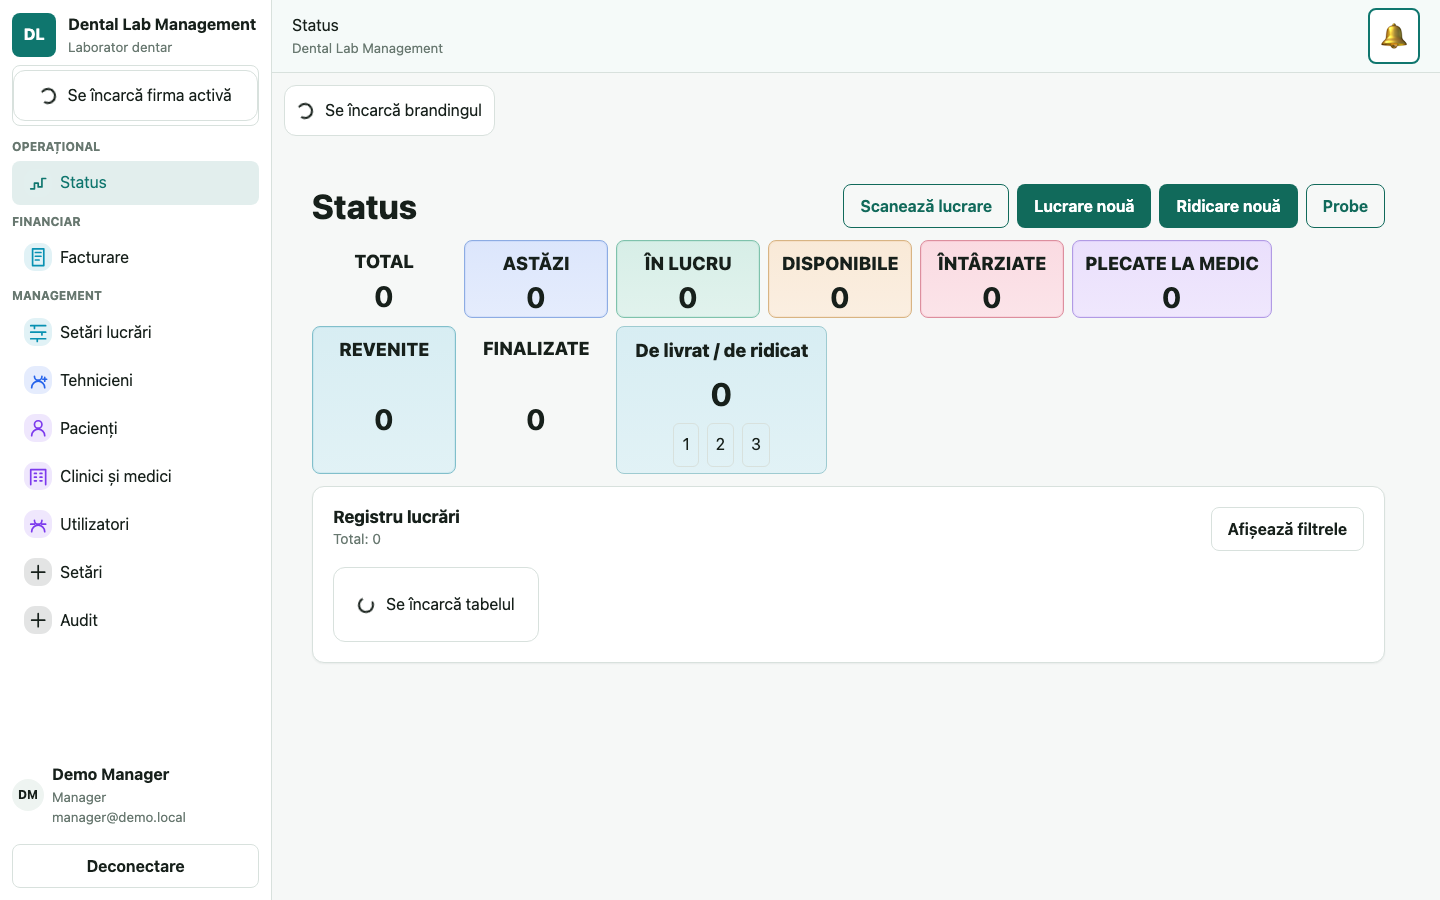
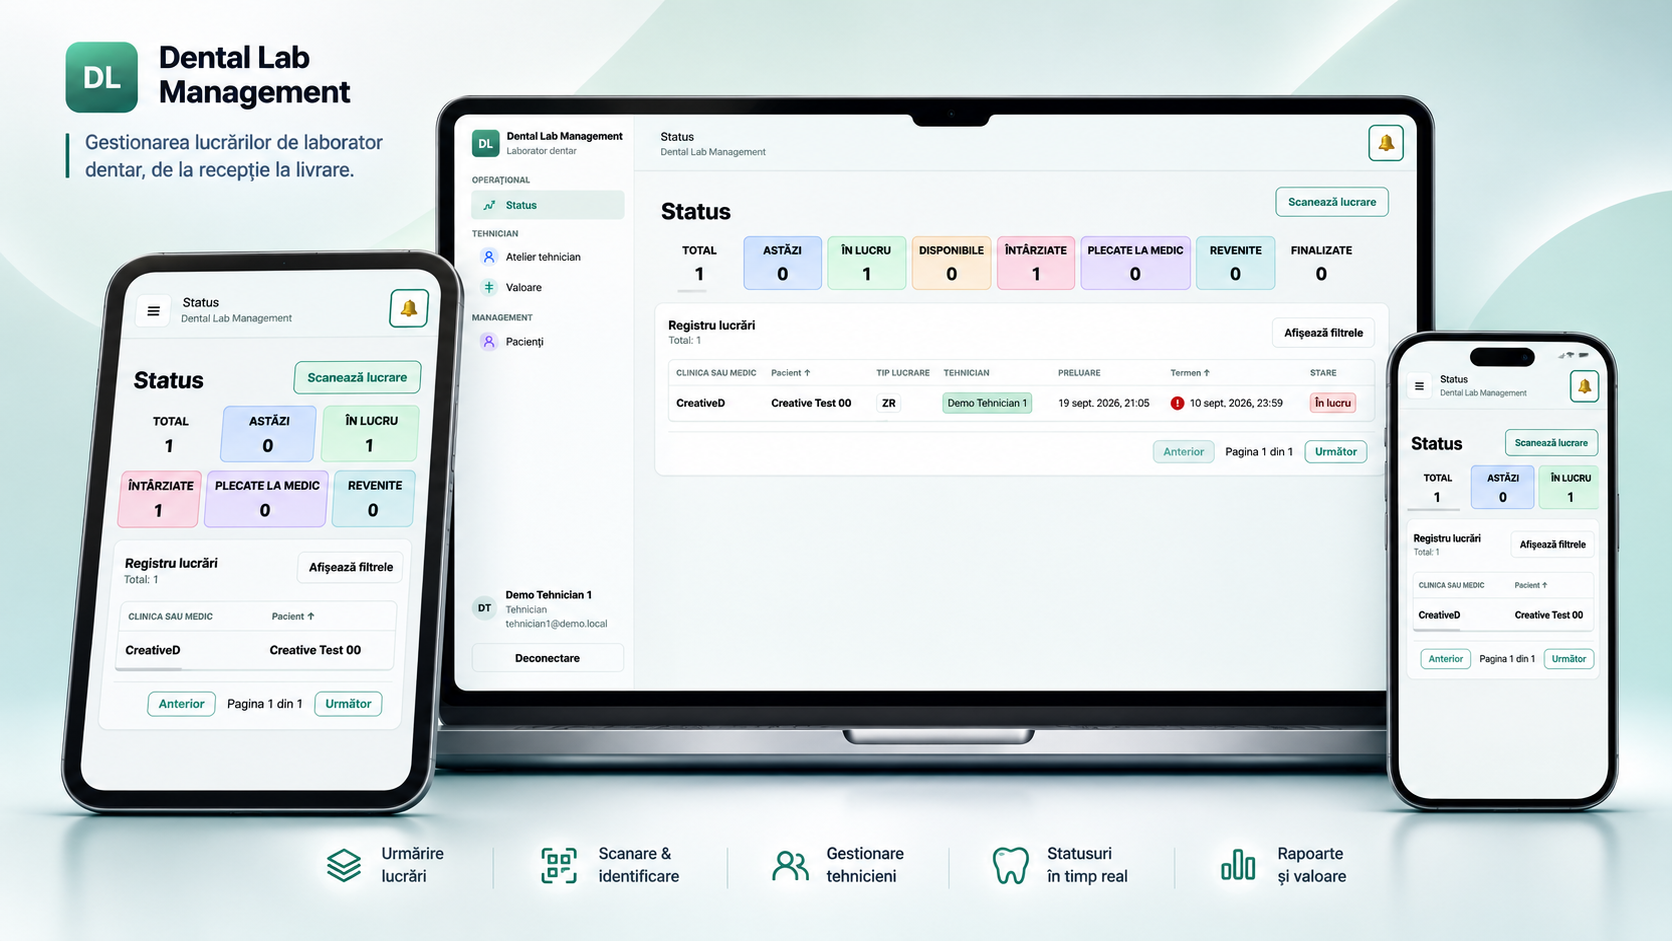
feat: link Dental Lab demo and showcase

diff --git a/components/portfolio/portfolio-app.tsx b/components/portfolio/portfolio-app.tsx
@@ -84,7 +84,7 @@ function Section({ eyebrow, title, children, className = "" }: { eyebrow?: strin
 }
 
 function ProjectPreview({ project }: { project: PublicProject }) {
-  return <article className="project-card"><div className="project-art" aria-label={`${project.title} product preview`}>{project.thumbnail ? <Image src={project.thumbnail} alt="" fill sizes="(max-width: 840px) 100vw, (max-width: 1100px) 50vw, 33vw" /> : <><span>Media to be supplied</span><i /><b>{project.title.slice(0, 2).toUpperCase()}</b></>}</div><div className="project-card-copy"><span>{project.category}</span><h3>{project.title}</h3><p>{project.summary}</p><ul>{project.technologies.slice(0, 3).map((item) => <li key={item}>{item}</li>)}</ul><Link href={`/work/${project.slug}`}>Read case study ↗</Link></div></article>;
+  return <article className="project-card"><div className="project-art" aria-label={`${project.title} product preview`}>{project.thumbnail ? <Image src={project.thumbnail} alt="" fill sizes="(max-width: 840px) 100vw, (max-width: 1100px) 50vw, 33vw" /> : <><span>Media to be supplied</span><i /><b>{project.title.slice(0, 2).toUpperCase()}</b></>}</div><div className="project-card-copy"><span>{project.category}</span><h3>{project.title}</h3><p>{project.summary}</p><ul>{project.technologies.slice(0, 3).map((item) => <li key={item}>{item}</li>)}</ul><div className="project-card-links">{project.liveUrl && <a href={project.liveUrl} target="_blank" rel="noreferrer">Open live demo ↗</a>}<Link href={`/work/${project.slug}`}>Read case study ↗</Link></div>{project.demoNotice && <small className="project-demo-notice">{project.demoNotice}</small>}</div></article>;
 }
 
 function UnpublishedWork() {

diff --git a/app/portfolio.css b/app/portfolio.css
@@ -172,4 +172,5 @@
 
 /* Approved product media: every card shares the same crop while each system keeps its own material frame. */
 .project-art>img{object-fit:cover;object-position:center}.portfolio-tactile .project-art>img{filter:saturate(.82) contrast(.97)}.portfolio-nocturne .project-art>img{filter:saturate(.88) brightness(.9)}.portfolio-editorial .project-art>img{filter:saturate(.76) contrast(.94)}.portfolio-brutalist .project-art>img{filter:saturate(1.12) contrast(1.06)}.portfolio-playground .project-art>img{filter:saturate(1.06)}
+.project-card-links{display:flex;flex-wrap:wrap;gap:12px}.project-demo-notice{display:block;margin-top:12px;color:var(--p-muted);font-size:10px;line-height:1.45}
 .portfolio-tactile .work-carousel-pagination{grid-template-columns:repeat(var(--work-slide-count,3),1fr)}.portfolio-tactile .work-carousel-pagination .work-carousel-pagination-indicator{width:calc((100% - 8px)/var(--work-slide-count,3))}.portfolio-nocturne .work-carousel-pagination,.portfolio-editorial .work-carousel-pagination,.portfolio-brutalist .work-carousel-pagination,.portfolio-playground .work-carousel-pagination{grid-template-columns:repeat(var(--work-slide-count,3),1fr)}

diff --git a/content/projects.ts b/content/projects.ts
@@ -28,6 +28,7 @@ export type PublicProject = {
   mockups?: string[];
   video?: string;
   liveUrl?: string;
+  demoNotice?: string;
   repositoryUrl?: string;
   relatedProjects?: string[];
 };
@@ -56,7 +57,8 @@ export const publishedProjects: readonly PublicProject[] = [
     category: "Business platform", platforms: ["Web", "Backend"], technologies: ["TypeScript", "Web application", "Business workflows"],
     publicationState: "published", featured: true, featuredOrder: 2, year: "2026",
     thumbnail: "/projects/dental-lab-work.png", heroImage: "/projects/dental-lab-work.png", screenshots: ["/projects/dental-lab-work.png"],
-    liveUrl: "https://dental-lab-web.onrender.com/",
+    liveUrl: "https://dental-lab-web.onrender.com/login",
+    demoNotice: "Demo hosting uses a free database tier. The first opening may take up to around 30 seconds while it wakes up.",
   },
   {
     id: "restaurant-saas", slug: "restaurant-saas", title: "Restaurant SaaS", subtitle: "Ordering and operations",
